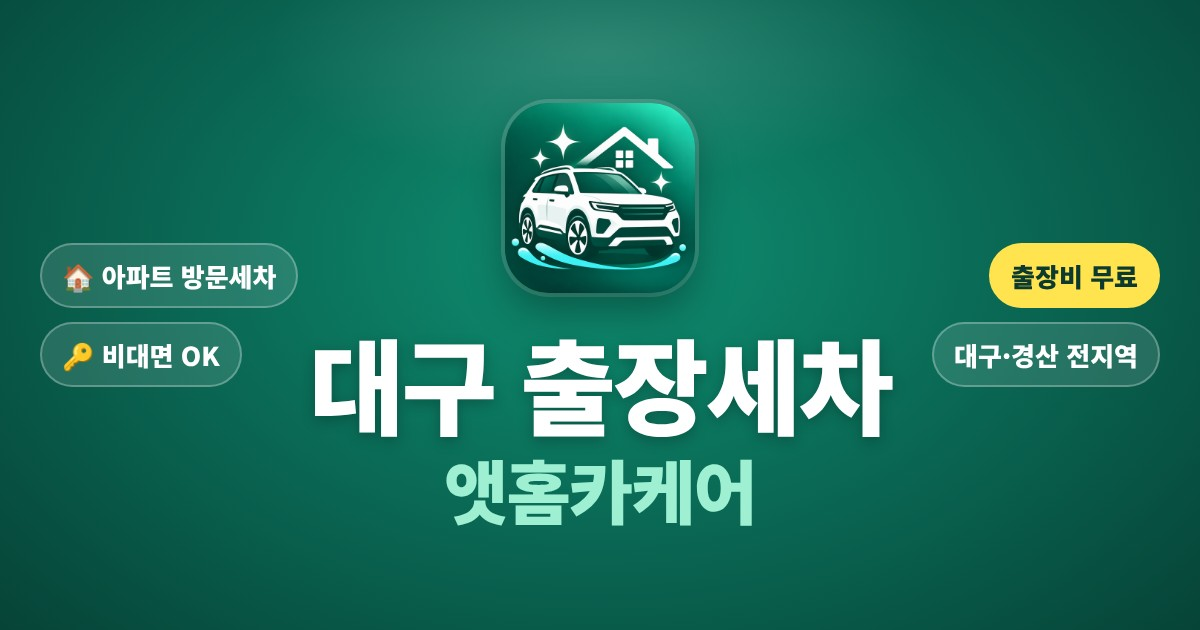
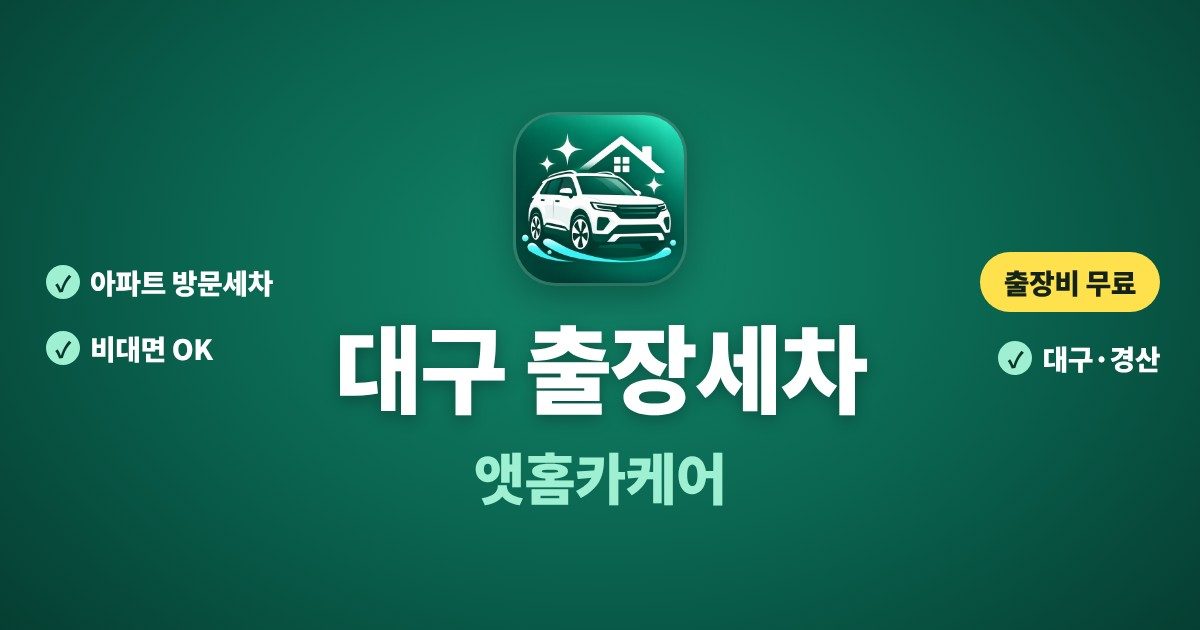
검색·공유 썸네일 다듬기 (글자 정리, 이모지 제거, 가운데 정렬)
Claude-Session: https://claude.ai/code/session_01LDzxv26JureUk1mmQkifQt

diff --git a/index.html b/index.html
@@ -17,7 +17,7 @@
   <meta property="og:title" content="대구·경산 출장세차·월세차 | 집앞세차 앳홈카케어" />
   <meta property="og:description" content="아파트 주차장으로 찾아가는 출장세차. 외부·실내 세차와 월 2회·4회 월세차, 출장비 무료·비대면 이용 가능. 대구·경산 전지역." />
   <meta property="og:url" content="https://athomecarcare.kr/" />
-  <meta property="og:image" content="https://athomecarcare.kr/assets/og-share-2026c.jpg" />
+  <meta property="og:image" content="https://athomecarcare.kr/assets/og-share-2026d.jpg" />
   <meta property="og:image:width" content="1200" />
   <meta property="og:image:height" content="630" />
   <meta name="twitter:card" content="summary_large_image" />
@@ -29,7 +29,7 @@
   <title>대구·경산 출장세차·월세차 | 집앞세차 앳홈카케어</title>
   <script type="application/ld+json">
   {"@context":"https://schema.org","@type":"AutoWash","name":"집앞세차 앳홈카케어","alternateName":["앳홈카케어","At Home Car Care"],
-   "url":"https://athomecarcare.kr/","image":"https://athomecarcare.kr/assets/og-share-2026c.jpg","logo":"https://athomecarcare.kr/icons/icon-512.png",
+   "url":"https://athomecarcare.kr/","image":"https://athomecarcare.kr/assets/og-share-2026d.jpg","logo":"https://athomecarcare.kr/icons/icon-512.png",
    "description":"대구·경산 전지역 아파트 출장세차(방문세차). 출장비 무료, 외부세차·외부+내부세차·고급·프리미엄 세차·월세차.",
    "priceRange":"₩28,000~","currenciesAccepted":"KRW",
    "address":{"@type":"PostalAddress","addressLocality":"대구광역시","addressCountry":"KR"},

diff --git a/price.html b/price.html
@@ -11,7 +11,7 @@
 <meta property="og:title" content="대구 출장세차 가격표 | 집앞세차 앳홈카케어" />
 <meta property="og:description" content="외부세차 28,000원부터 · 월세차 · 추가 옵션 · 출장비 무료" />
 <meta property="og:url" content="https://athomecarcare.kr/price.html" />
-<meta property="og:image" content="https://athomecarcare.kr/assets/og-share-2026c.jpg" />
+<meta property="og:image" content="https://athomecarcare.kr/assets/og-share-2026d.jpg" />
 <meta name="twitter:card" content="summary_large_image" />
 <meta name="theme-color" content="#087C68" />
 <link rel="icon" href="icons/icon-192.png" />
